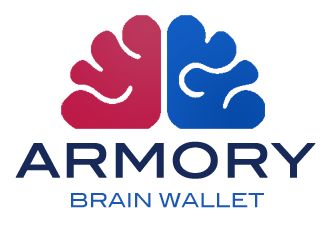
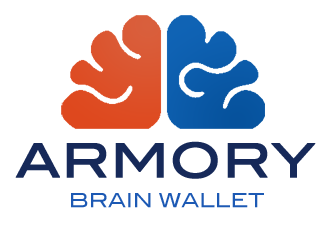
Ok
Ok

Changed region(s): [[0.1796, 0.0598, 0.479, 0.5684]]

diff --git a/cs.css b/cs.css
@@ -17,7 +17,7 @@ body {
 	margin-bottom: 15px;
 }
 .tit1 {
-	color: #bc214c;
+	color: #de481e;
 	font-size: 18px;
 	margin-top: 60px;
 	margin-bottom: 15px;
